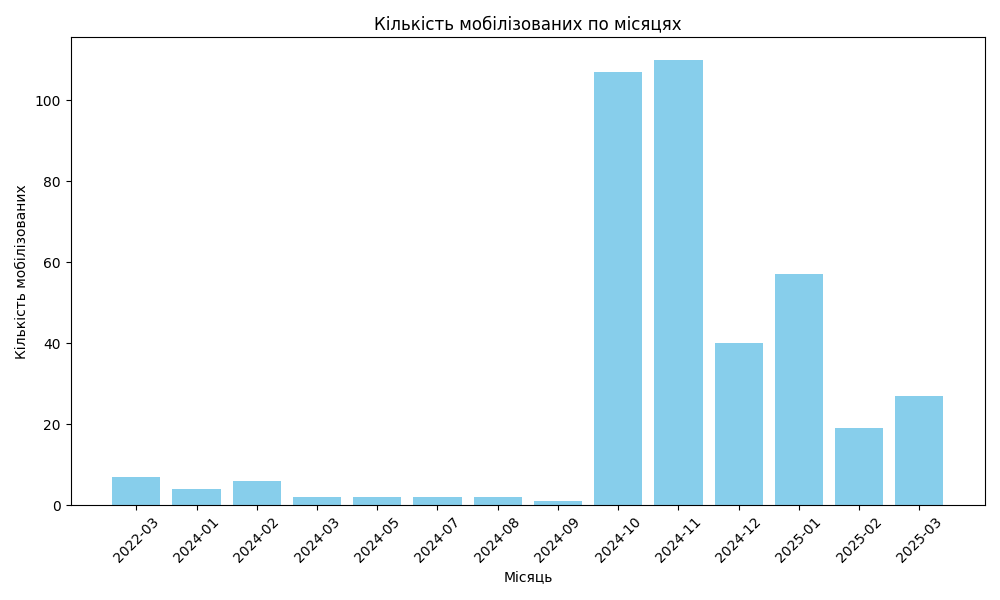
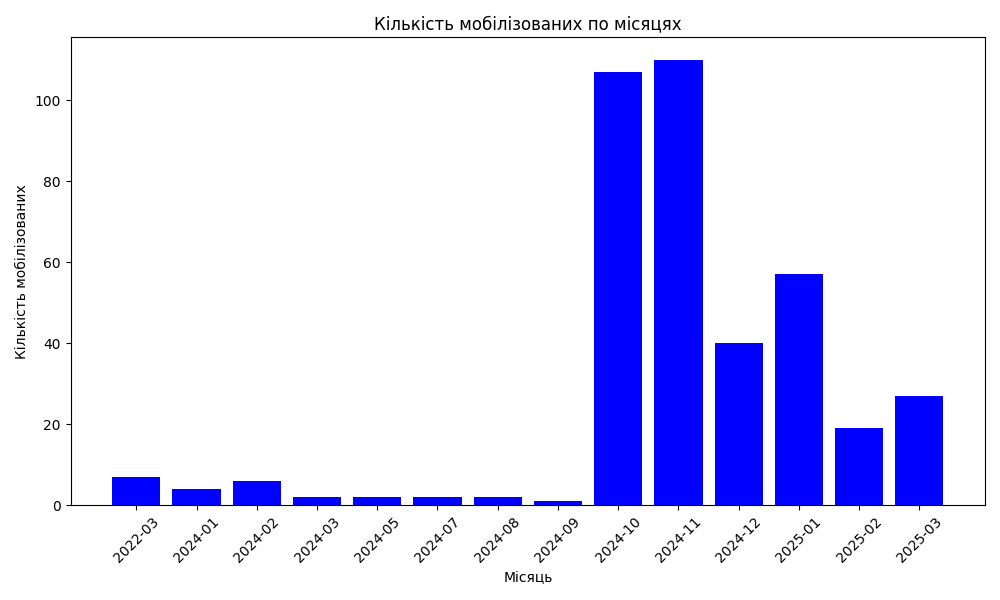
Updated and tested -- 'mobilization-graph.py'. The bars of the chart are in blue color.

Changed region(s): [[0.093, 0.09, 0.961, 0.84]]

diff --git a/mobilization-graph.py b/mobilization-graph.py
@@ -1,5 +1,5 @@
 import openpyxl
-import json
+# import json
 from datetime import datetime
 import matplotlib.pyplot as plt
 from collections import defaultdict
@@ -50,8 +50,8 @@ for row in shpk_ws.iter_rows(min_row=5, values_only=True):  # Пропустит
         }
 
 
-pretty_json = json.dumps(shpk_data, indent=2, ensure_ascii=False)
-print(pretty_json)
+# pretty_json = json.dumps(shpk_data, indent=2, ensure_ascii=False)
+# print(pretty_json)
 
 # Підготовка даних для графіка
 months = sorted(mobilized_count.keys())
@@ -59,7 +59,7 @@ counts = [mobilized_count[month] for month in months]
 
 # Створення стовпчастого графіка
 plt.figure(figsize=(10, 6))
-plt.bar(months, counts, color='skyblue')
+plt.bar(months, counts, color='blue')
 plt.xlabel('Місяць')
 plt.ylabel('Кількість мобілізованих')
 plt.title('Кількість мобілізованих по місяцях')
